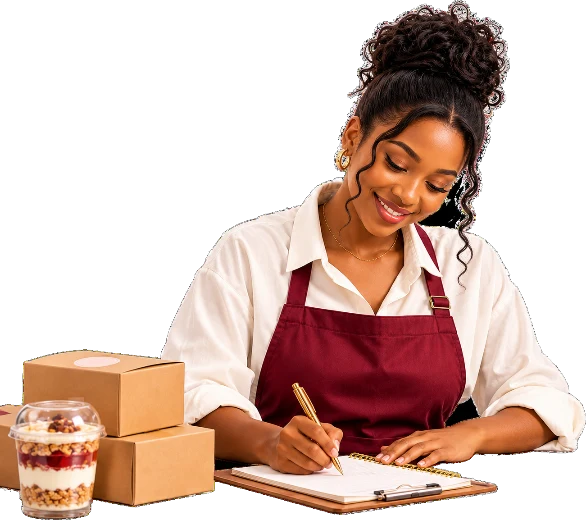
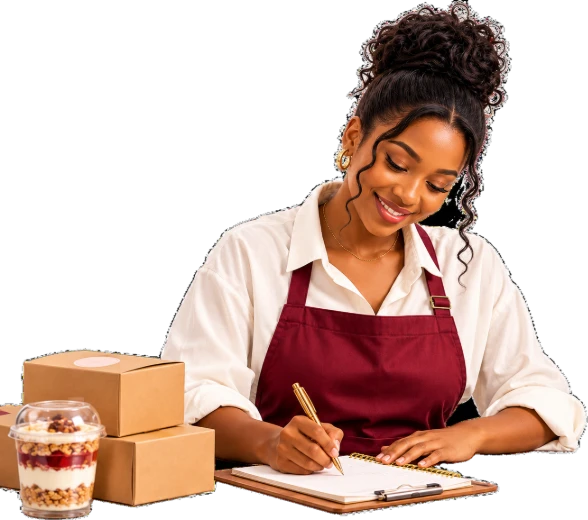
Landing: cleaner cut outs for the who pictures, client replies match an invoice
Claude-Session: https://claude.ai/code/session_012wYL95FeHvN21Suxf4B9km

diff --git a/src/pages/Landing.tsx b/src/pages/Landing.tsx
@@ -47,9 +47,9 @@ type Who = { k: string; icon: ReactNode; t: string; d: string; photo: { src: str
 /** Cut out pictures that stand in the picture space at the top of each frame. */
 const WHO: Who[] = [
   { k: 'free', icon: <PersonIcon />, t: 'Freelancers', d: 'Look professional from your very first client. Send invoices and contracts with your own name and signature.', photo: { src: './images/freelancer.webp', w: 610, h: 520, alt: 'A freelancer in a headset smiling at her laptop.' } },
-  { k: 'shop', icon: <ShopIcon />, t: 'Small businesses and shop owners', d: 'Keep every invoice, receipt and agreement in one place, and always know who has paid.', photo: { src: './images/business.webp', w: 586, h: 520, alt: 'A shop owner in an apron writing in a notebook beside boxed orders.' } },
+  { k: 'shop', icon: <ShopIcon />, t: 'Small businesses and shop owners', d: 'Keep every invoice, receipt and agreement in one place, and always know who has paid.', photo: { src: './images/business.webp', w: 588, h: 520, alt: 'A shop owner in an apron writing in a notebook beside boxed orders.' } },
   { k: 'growing', icon: <BarsIcon />, t: 'Growing brands', d: 'Keep one consistent look on everything you send out, from invoices to contracts.', photo: { src: './images/brand.webp', w: 617, h: 520, alt: 'A range of branded packaging, boxes, bottles and shopping bags.' } },
-  { k: 'anyone', icon: <PeopleIcon />, t: 'Anyone', d: 'If you need an invoice, receipt or contract, Generate is for you.', photo: { src: './images/anyone.webp', w: 482, h: 520, alt: 'A smiling young man with a backpack, headphones and notebooks.' } },
+  { k: 'anyone', icon: <PeopleIcon />, t: 'Anyone', d: 'If you need an invoice, receipt or contract, Generate is for you.', photo: { src: './images/anyone.webp', w: 484, h: 520, alt: 'A smiling young man with a backpack, headphones and notebooks.' } },
 ]
 
 export default function Landing() {

diff --git a/src/components/landing/SceneChat.tsx b/src/components/landing/SceneChat.tsx
@@ -52,13 +52,13 @@ export function SceneChat({ message, play }: { message: string; play: boolean })
         )}
         {n >= 5 && (
           <div className="sc in">
-            Received, thank you! Sending the payment now.
+            Received, thank you for sending the invoice.
             <span className="sc-time">10:25 AM</span>
           </div>
         )}
         {n >= 6 && (
           <div className="sc in">
-            Done. Please check your account.
+            Okay, I will make the payment today.
             <span className="sc-time">10:26 AM</span>
           </div>
         )}
